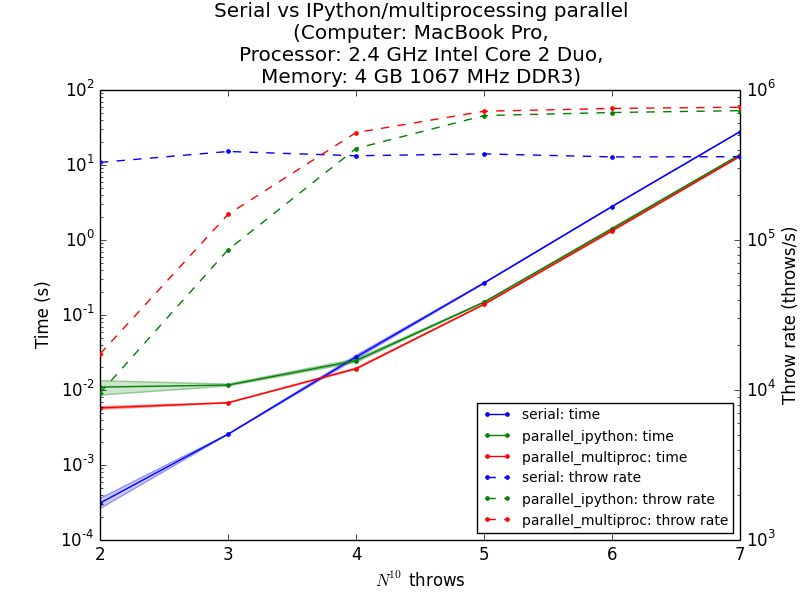
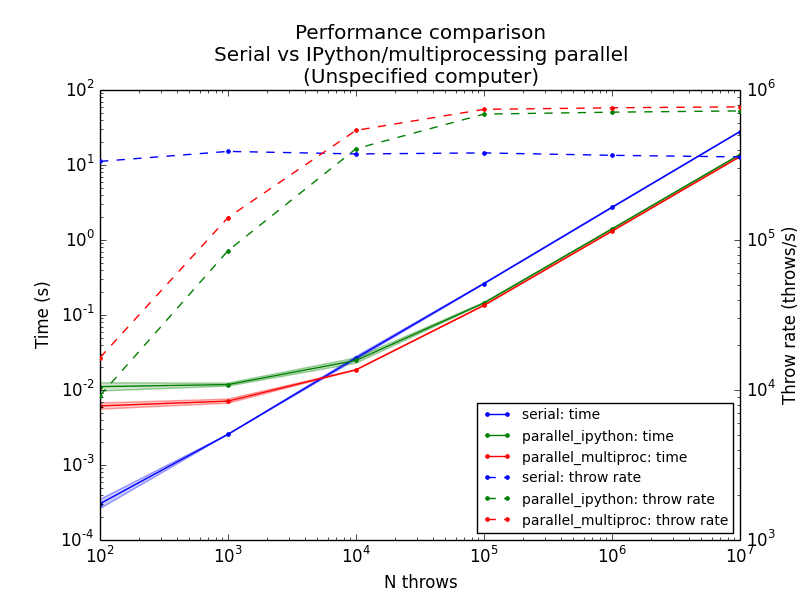
new version of figure, slight changes to README

diff --git a/hw9/hw9.py b/hw9/hw9.py
@@ -178,7 +178,7 @@ if __name__=='__main__':
     # start multiprocessing pool
     pool = multiprocessing.Pool()
 
-    ns = 10**np.arange(2, 5)
+    ns = 10**np.arange(2, 8)
     df = run(ns, engines, pool)
 
     time_means, time_errs, simrate_means = analyze(df)

diff --git a/hw9/README.md b/hw9/README.md
@@ -16,7 +16,7 @@ First, you should initiate an IPython cluster by entering the following code int
 When the cluster has intialized, you can run the code by entering the following into a separate terminal window.
 > python hw9.py
 
-The code finished in under 1 minute on my MacBook Pro.
+The code finished in about 2 minutes on my MacBook Pro.
 
 
 ![Performance plot](performance_RG.png "Performance")
